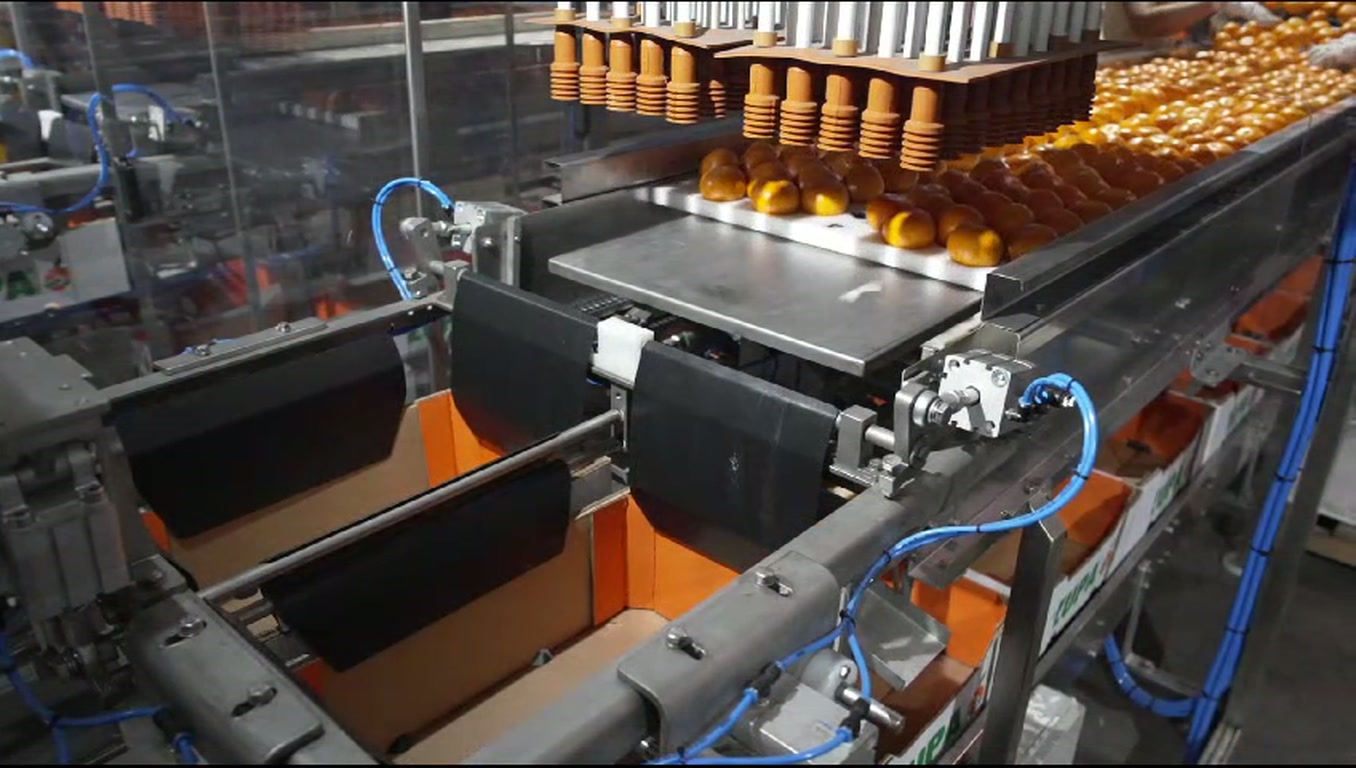
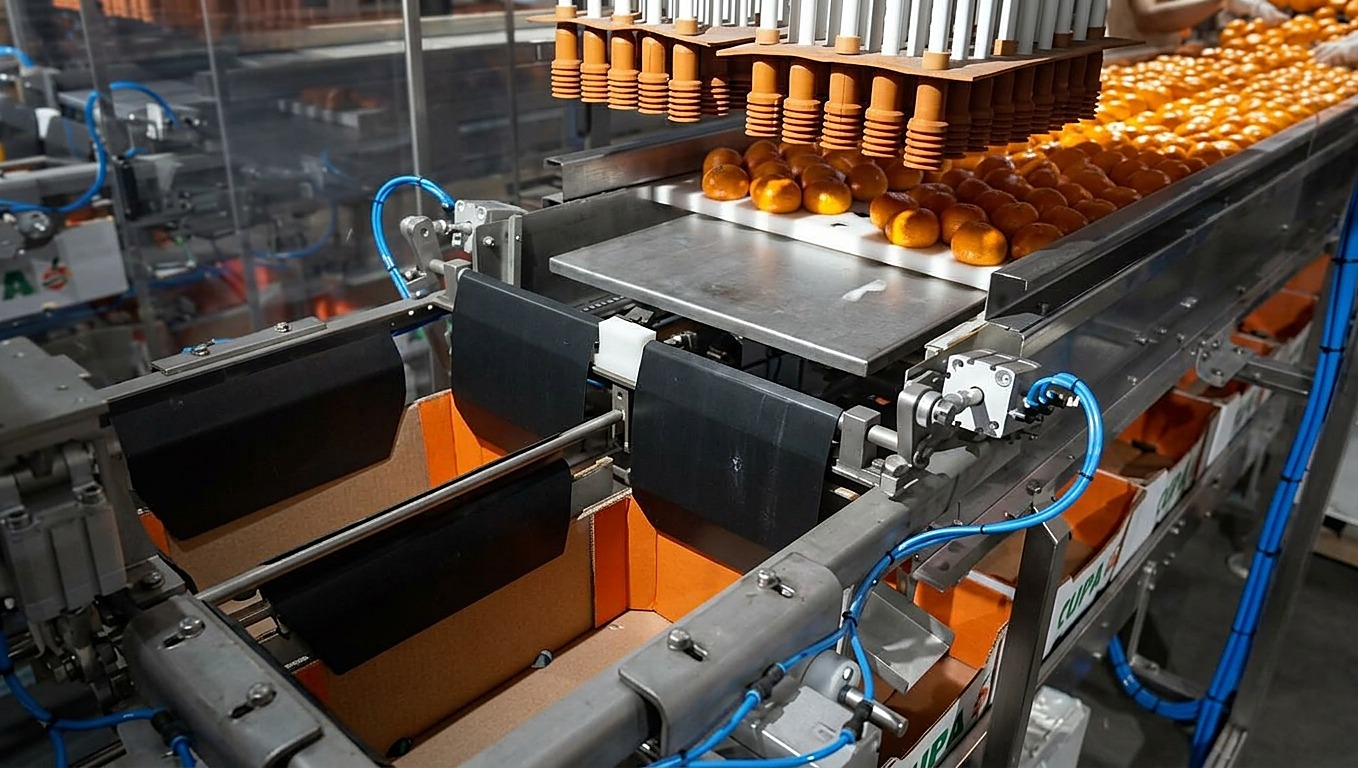
Substitui foto da etapa "Esteira de saída de caixas" por imagem de melhor qualidade
Imagem fornecida pelo usuário (nota: gerada por IA), usada na Home e
em Como Funciona (card, fluxo e painel de recursos). Cache-bust (?v=2).

diff --git a/como-funciona/index.html b/como-funciona/index.html
@@ -110,7 +110,7 @@
 
       <div class="flow-step" id="saida">
         <div class="flow-media reveal">
-          <img src="/assets/img/etapa-saida.jpg" alt="Esteira de saída com caixas montadas prontas para paletização" loading="lazy">
+          <img src="/assets/img/etapa-saida.jpg?v=2" alt="Esteira de saída com caixas montadas prontas para paletização" loading="lazy">
         </div>
         <div class="reveal">
           <span class="flow-index">ETAPA 05</span>
@@ -172,13 +172,13 @@
               <p class="feature-desc">Calibre e formato de caixa ficam salvos no painel — sem reconfigurar a cada troca.</p>
               <div class="feature-item-media-mobile"><img src="/assets/img/etapa-painel.jpg" alt="Painel de controle RUNPack com receitas de produto" loading="lazy"></div>
             </li>
-            <li class="feature-item" data-media="/assets/img/etapa-saida.jpg" data-alt="Esteira de saída com caixas montadas prontas para paletização">
+            <li class="feature-item" data-media="/assets/img/etapa-saida.jpg?v=2" data-alt="Esteira de saída com caixas montadas prontas para paletização">
               <div class="feature-item-head">
                 <span class="feature-num">5</span>
                 <span class="feature-item-title">Múltiplos formatos na mesma linha</span>
               </div>
               <p class="feature-desc">Caixas de diferentes tamanhos saem prontas para paletização, sem troca de equipamento.</p>
-              <div class="feature-item-media-mobile"><img src="/assets/img/etapa-saida.jpg" alt="Esteira de saída com caixas montadas prontas para paletização" loading="lazy"></div>
+              <div class="feature-item-media-mobile"><img src="/assets/img/etapa-saida.jpg?v=2" alt="Esteira de saída com caixas montadas prontas para paletização" loading="lazy"></div>
             </li>
           </ul>
         </div>

diff --git a/index.html b/index.html
@@ -142,7 +142,7 @@
         </div>
         <div class="step-card reveal">
           <span class="step-num">5</span>
-          <img src="/assets/img/etapa-saida.jpg" alt="Esteira de saída com caixas montadas prontas para paletização" loading="lazy">
+          <img src="/assets/img/etapa-saida.jpg?v=2" alt="Esteira de saída com caixas montadas prontas para paletização" loading="lazy">
           <span class="step-caption">Esteira de saída de caixas</span>
         </div>
         <div class="step-card reveal">
